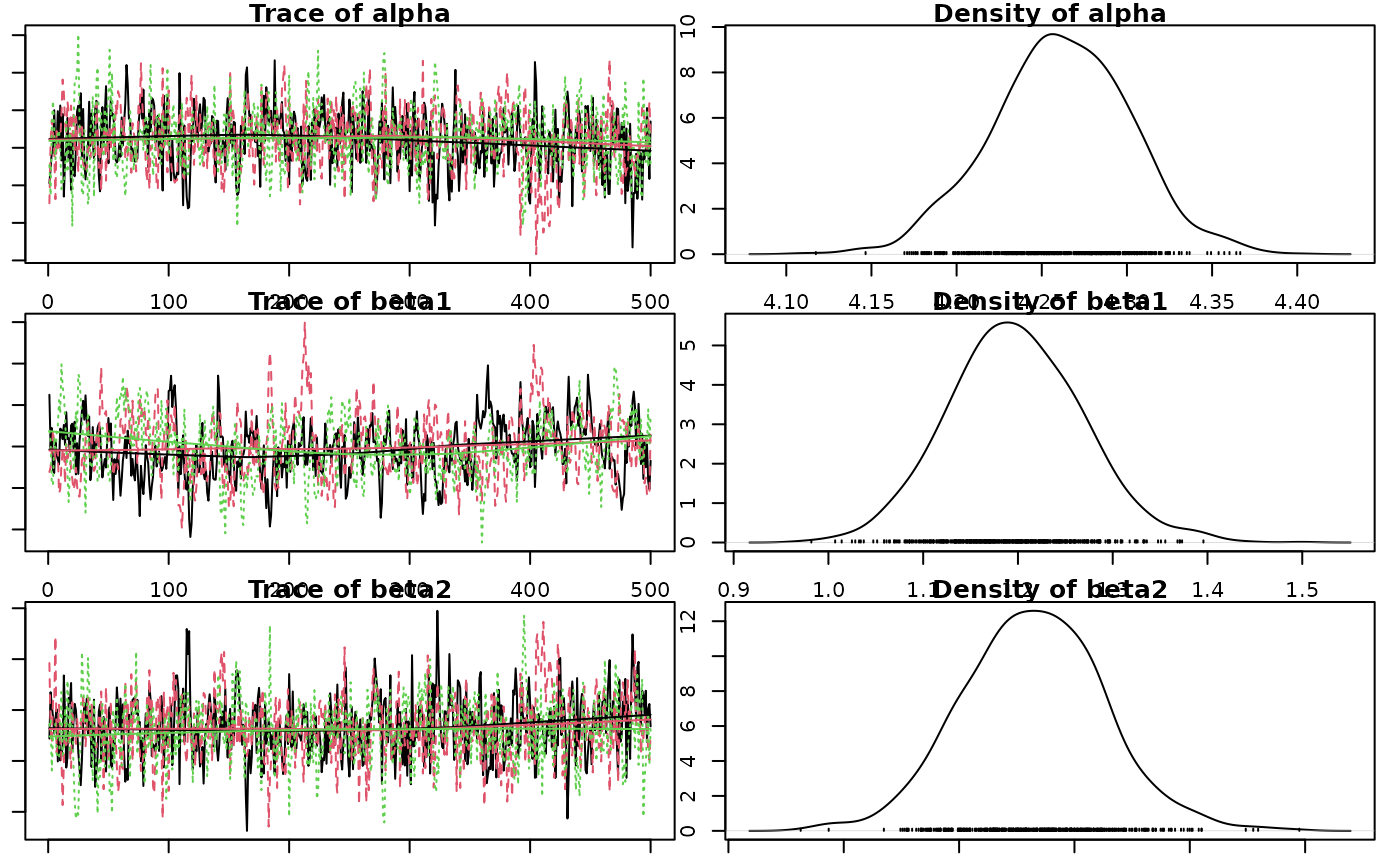
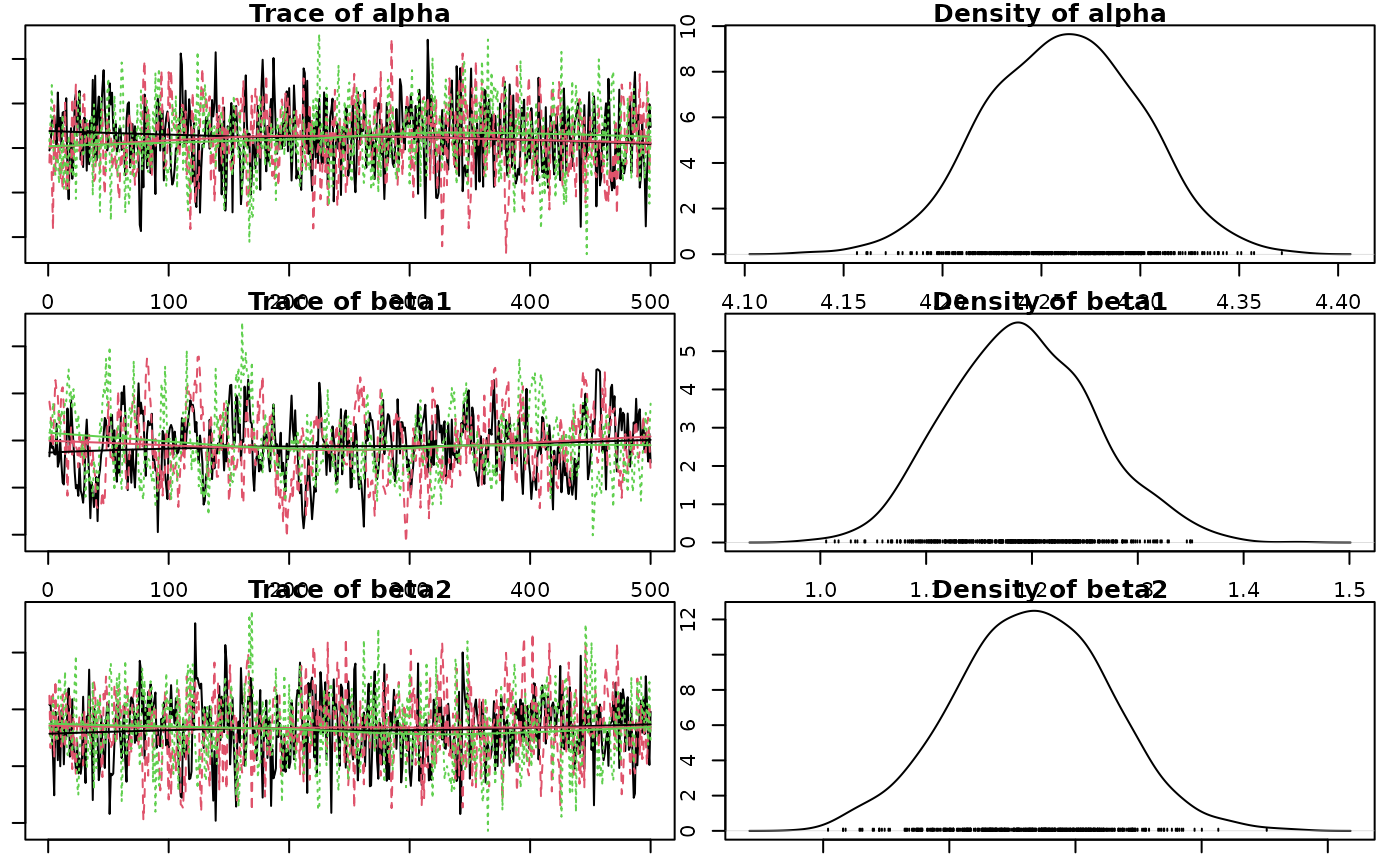
Deploying to gh-pages from @ poissonconsulting/jmbr@bdc40e853c25451249595876ef2386f962485c9c 🚀

diff --git a/articles/jmbr.html b/articles/jmbr.html
@@ -300,14 +300,14 @@ value and discarding all other values.</p>
 <span><span class="co">#&gt; <span style="color: #949494;"># A tibble: 1 × 8</span></span></span>
 <span><span class="co">#&gt;       n     K nchains niters nthin   ess  rhat converged</span></span>
 <span><span class="co">#&gt;   <span style="color: #949494; font-style: italic;">&lt;int&gt;</span> <span style="color: #949494; font-style: italic;">&lt;int&gt;</span>   <span style="color: #949494; font-style: italic;">&lt;int&gt;</span>  <span style="color: #949494; font-style: italic;">&lt;int&gt;</span> <span style="color: #949494; font-style: italic;">&lt;int&gt;</span> <span style="color: #949494; font-style: italic;">&lt;int&gt;</span> <span style="color: #949494; font-style: italic;">&lt;dbl&gt;</span> <span style="color: #949494; font-style: italic;">&lt;lgl&gt;</span>    </span></span>
-<span><span class="co">#&gt; <span style="color: #BCBCBC;">1</span>    40     6       3    500    10   188  1.01 TRUE</span></span>
+<span><span class="co">#&gt; <span style="color: #BCBCBC;">1</span>    40     6       3    500    10   290  1.00 TRUE</span></span>
 <span><span class="co">#&gt; Warning in value[[3L]](cond): beep() could not play the sound due to the following error:</span></span>
 <span><span class="co">#&gt; Error in play.default(x, rate, ...): no audio drivers are available</span></span>
 <span><span class="va">analysis</span> <span class="op">&lt;-</span> <span class="fu"><a href="https://rdrr.io/pkg/embr/man/reanalyse.html" class="external-link">reanalyse</a></span><span class="op">(</span><span class="va">analysis</span><span class="op">)</span></span>
 <span><span class="co">#&gt; <span style="color: #949494;"># A tibble: 1 × 8</span></span></span>
 <span><span class="co">#&gt;       n     K nchains niters nthin   ess  rhat converged</span></span>
 <span><span class="co">#&gt;   <span style="color: #949494; font-style: italic;">&lt;int&gt;</span> <span style="color: #949494; font-style: italic;">&lt;int&gt;</span>   <span style="color: #949494; font-style: italic;">&lt;int&gt;</span>  <span style="color: #949494; font-style: italic;">&lt;int&gt;</span> <span style="color: #949494; font-style: italic;">&lt;int&gt;</span> <span style="color: #949494; font-style: italic;">&lt;int&gt;</span> <span style="color: #949494; font-style: italic;">&lt;dbl&gt;</span> <span style="color: #949494; font-style: italic;">&lt;lgl&gt;</span>    </span></span>
-<span><span class="co">#&gt; <span style="color: #BCBCBC;">1</span>    40     6       3    500    10   188  1.01 TRUE</span></span>
+<span><span class="co">#&gt; <span style="color: #BCBCBC;">1</span>    40     6       3    500    10   290  1.00 TRUE</span></span>
 <span><span class="co">#&gt; Warning in value[[3L]](cond): beep() could not play the sound due to the following error:</span></span>
 <span><span class="co">#&gt; Error in play.default(x, rate, ...): no audio drivers are available</span></span></code></pre></div>
 <p><strong>Analysis Table:</strong></p>
@@ -357,12 +357,12 @@ between- and within-chain estimates for model parameters.
 <span><span class="co">#&gt; <span style="color: #949494;"># A tibble: 6 × 7</span></span></span>
 <span><span class="co">#&gt;   term        estimate     sd  zscore   lower   upper   pvalue</span></span>
 <span><span class="co">#&gt;   <span style="color: #949494; font-style: italic;">&lt;term&gt;</span>         <span style="color: #949494; font-style: italic;">&lt;dbl&gt;</span>  <span style="color: #949494; font-style: italic;">&lt;dbl&gt;</span>   <span style="color: #949494; font-style: italic;">&lt;dbl&gt;</span>   <span style="color: #949494; font-style: italic;">&lt;dbl&gt;</span>   <span style="color: #949494; font-style: italic;">&lt;dbl&gt;</span>    <span style="color: #949494; font-style: italic;">&lt;dbl&gt;</span></span></span>
-<span><span class="co">#&gt; <span style="color: #BCBCBC;">1</span> alpha         4.26   0.040<span style="text-decoration: underline;">7</span> 105.     4.18    4.34   0.000<span style="text-decoration: underline;">666</span></span></span>
-<span><span class="co">#&gt; <span style="color: #BCBCBC;">2</span> beta1         1.20   0.071<span style="text-decoration: underline;">2</span>  16.8    1.06    1.34   0.000<span style="text-decoration: underline;">666</span></span></span>
-<span><span class="co">#&gt; <span style="color: #BCBCBC;">3</span> beta2        -<span style="color: #BB0000;">0.017</span><span style="color: #BB0000; text-decoration: underline;">9</span> 0.030<span style="text-decoration: underline;">9</span>  -<span style="color: #BB0000;">0.580</span> -<span style="color: #BB0000;">0.077</span><span style="color: #BB0000; text-decoration: underline;">7</span>  0.046<span style="text-decoration: underline;">2</span> 0.556   </span></span>
-<span><span class="co">#&gt; <span style="color: #BCBCBC;">4</span> beta3        -<span style="color: #BB0000;">0.273</span>  0.036<span style="text-decoration: underline;">5</span>  -<span style="color: #BB0000;">7.52</span>  -<span style="color: #BB0000;">0.348</span>  -<span style="color: #BB0000;">0.207</span>  0.000<span style="text-decoration: underline;">666</span></span></span>
-<span><span class="co">#&gt; <span style="color: #BCBCBC;">5</span> log_sAnnual  -<span style="color: #BB0000;">2.22</span>   0.309   -<span style="color: #BB0000;">7.31</span>  -<span style="color: #BB0000;">2.94</span>   -<span style="color: #BB0000;">1.75</span>   0.000<span style="text-decoration: underline;">666</span></span></span>
-<span><span class="co">#&gt; <span style="color: #BCBCBC;">6</span> sAnnual       0.108  0.031<span style="text-decoration: underline;">1</span>   3.52   0.052<span style="text-decoration: underline;">7</span>  0.174  0.000<span style="text-decoration: underline;">666</span></span></span></code></pre></div>
+<span><span class="co">#&gt; <span style="color: #BCBCBC;">1</span> alpha         4.26   0.038<span style="text-decoration: underline;">6</span> 110.     4.19    4.34   0.000<span style="text-decoration: underline;">666</span></span></span>
+<span><span class="co">#&gt; <span style="color: #BCBCBC;">2</span> beta1         1.19   0.068<span style="text-decoration: underline;">5</span>  17.4    1.07    1.33   0.000<span style="text-decoration: underline;">666</span></span></span>
+<span><span class="co">#&gt; <span style="color: #BCBCBC;">3</span> beta2        -<span style="color: #BB0000;">0.017</span><span style="color: #BB0000; text-decoration: underline;">2</span> 0.030<span style="text-decoration: underline;">3</span>  -<span style="color: #BB0000;">0.568</span> -<span style="color: #BB0000;">0.077</span><span style="color: #BB0000; text-decoration: underline;">8</span>  0.041<span style="text-decoration: underline;">2</span> 0.590   </span></span>
+<span><span class="co">#&gt; <span style="color: #BCBCBC;">4</span> beta3        -<span style="color: #BB0000;">0.269</span>  0.035<span style="text-decoration: underline;">4</span>  -<span style="color: #BB0000;">7.66</span>  -<span style="color: #BB0000;">0.341</span>  -<span style="color: #BB0000;">0.206</span>  0.000<span style="text-decoration: underline;">666</span></span></span>
+<span><span class="co">#&gt; <span style="color: #BCBCBC;">5</span> log_sAnnual  -<span style="color: #BB0000;">2.26</span>   0.334   -<span style="color: #BB0000;">6.87</span>  -<span style="color: #BB0000;">3.08</span>   -<span style="color: #BB0000;">1.76</span>   0.000<span style="text-decoration: underline;">666</span></span></span>
+<span><span class="co">#&gt; <span style="color: #BCBCBC;">6</span> sAnnual       0.105  0.031<span style="text-decoration: underline;">8</span>   3.33   0.045<span style="text-decoration: underline;">9</span>  0.172  0.000<span style="text-decoration: underline;">666</span></span></span></code></pre></div>
 <p>The estimate is the <strong>median</strong> by default.</p>
 <p>The zscore is <span class="math inline">\(mean / sd\)</span>.</p>
 <div class="sourceCode" id="cb12"><pre class="downlit sourceCode r">
@@ -370,12 +370,12 @@ between- and within-chain estimates for model parameters.
 <span><span class="co">#&gt; <span style="color: #949494;"># A tibble: 6 × 5</span></span></span>
 <span><span class="co">#&gt;   term        estimate   lower   upper svalue</span></span>
 <span><span class="co">#&gt;   <span style="color: #949494; font-style: italic;">&lt;term&gt;</span>         <span style="color: #949494; font-style: italic;">&lt;dbl&gt;</span>   <span style="color: #949494; font-style: italic;">&lt;dbl&gt;</span>   <span style="color: #949494; font-style: italic;">&lt;dbl&gt;</span>  <span style="color: #949494; font-style: italic;">&lt;dbl&gt;</span></span></span>
-<span><span class="co">#&gt; <span style="color: #BCBCBC;">1</span> alpha         4.26    4.18    4.34   10.6  </span></span>
-<span><span class="co">#&gt; <span style="color: #BCBCBC;">2</span> beta1         1.20    1.06    1.34   10.6  </span></span>
-<span><span class="co">#&gt; <span style="color: #BCBCBC;">3</span> beta2        -<span style="color: #BB0000;">0.017</span><span style="color: #BB0000; text-decoration: underline;">9</span> -<span style="color: #BB0000;">0.077</span><span style="color: #BB0000; text-decoration: underline;">7</span>  0.046<span style="text-decoration: underline;">2</span>  0.846</span></span>
-<span><span class="co">#&gt; <span style="color: #BCBCBC;">4</span> beta3        -<span style="color: #BB0000;">0.273</span>  -<span style="color: #BB0000;">0.348</span>  -<span style="color: #BB0000;">0.207</span>  10.6  </span></span>
-<span><span class="co">#&gt; <span style="color: #BCBCBC;">5</span> log_sAnnual  -<span style="color: #BB0000;">2.22</span>   -<span style="color: #BB0000;">2.94</span>   -<span style="color: #BB0000;">1.75</span>   10.6  </span></span>
-<span><span class="co">#&gt; <span style="color: #BCBCBC;">6</span> sAnnual       0.108   0.052<span style="text-decoration: underline;">7</span>  0.174  10.6</span></span></code></pre></div>
+<span><span class="co">#&gt; <span style="color: #BCBCBC;">1</span> alpha         4.26    4.19    4.34   10.6  </span></span>
+<span><span class="co">#&gt; <span style="color: #BCBCBC;">2</span> beta1         1.19    1.07    1.33   10.6  </span></span>
+<span><span class="co">#&gt; <span style="color: #BCBCBC;">3</span> beta2        -<span style="color: #BB0000;">0.017</span><span style="color: #BB0000; text-decoration: underline;">2</span> -<span style="color: #BB0000;">0.077</span><span style="color: #BB0000; text-decoration: underline;">8</span>  0.041<span style="text-decoration: underline;">2</span>  0.762</span></span>
+<span><span class="co">#&gt; <span style="color: #BCBCBC;">4</span> beta3        -<span style="color: #BB0000;">0.269</span>  -<span style="color: #BB0000;">0.341</span>  -<span style="color: #BB0000;">0.206</span>  10.6  </span></span>
+<span><span class="co">#&gt; <span style="color: #BCBCBC;">5</span> log_sAnnual  -<span style="color: #BB0000;">2.26</span>   -<span style="color: #BB0000;">3.08</span>   -<span style="color: #BB0000;">1.76</span>   10.6  </span></span>
+<span><span class="co">#&gt; <span style="color: #BCBCBC;">6</span> sAnnual       0.105   0.045<span style="text-decoration: underline;">9</span>  0.172  10.6</span></span></code></pre></div>
 <p>The s-value is the <strong>suprisal</strong> value, which is a
 measure of directionality with respect to zero.</p>
 <p>The s-value is zero (unsurprising) when <em>p-value</em> = 1.0 and
